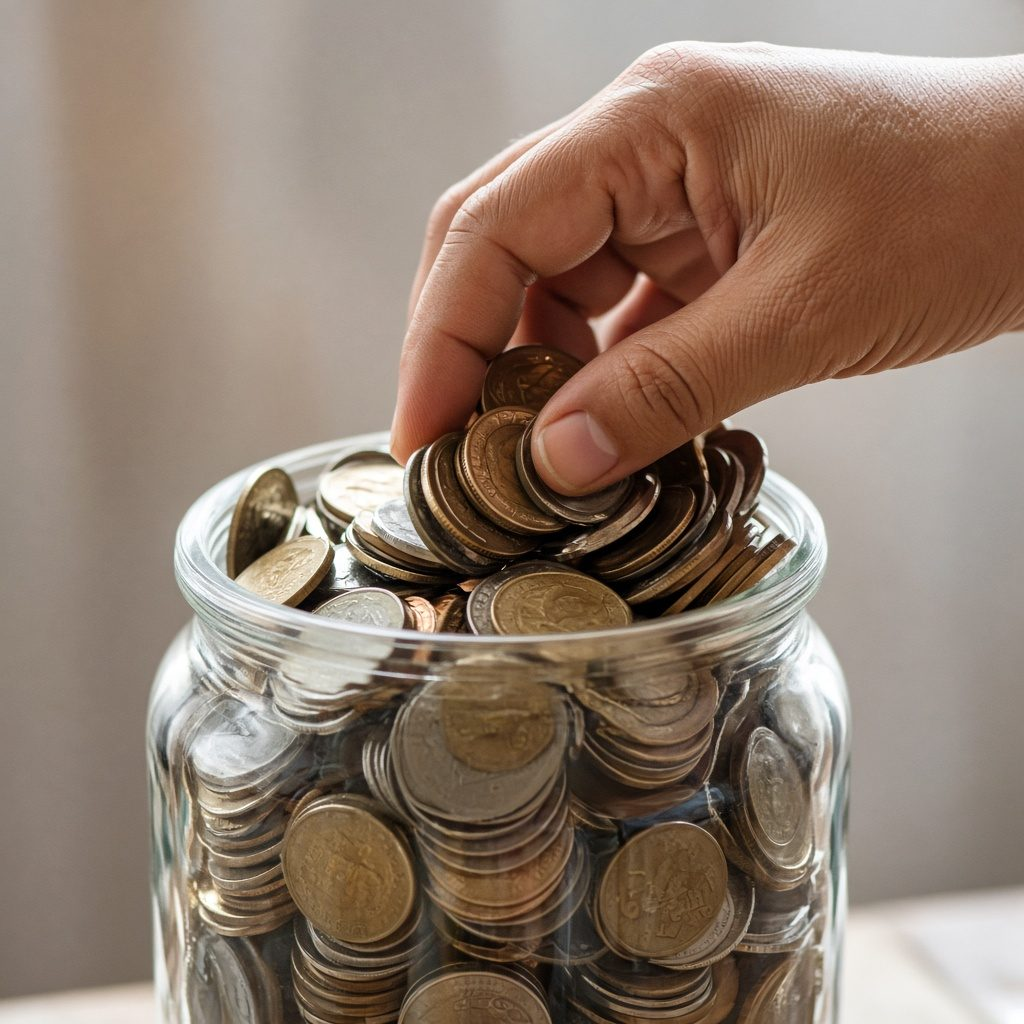
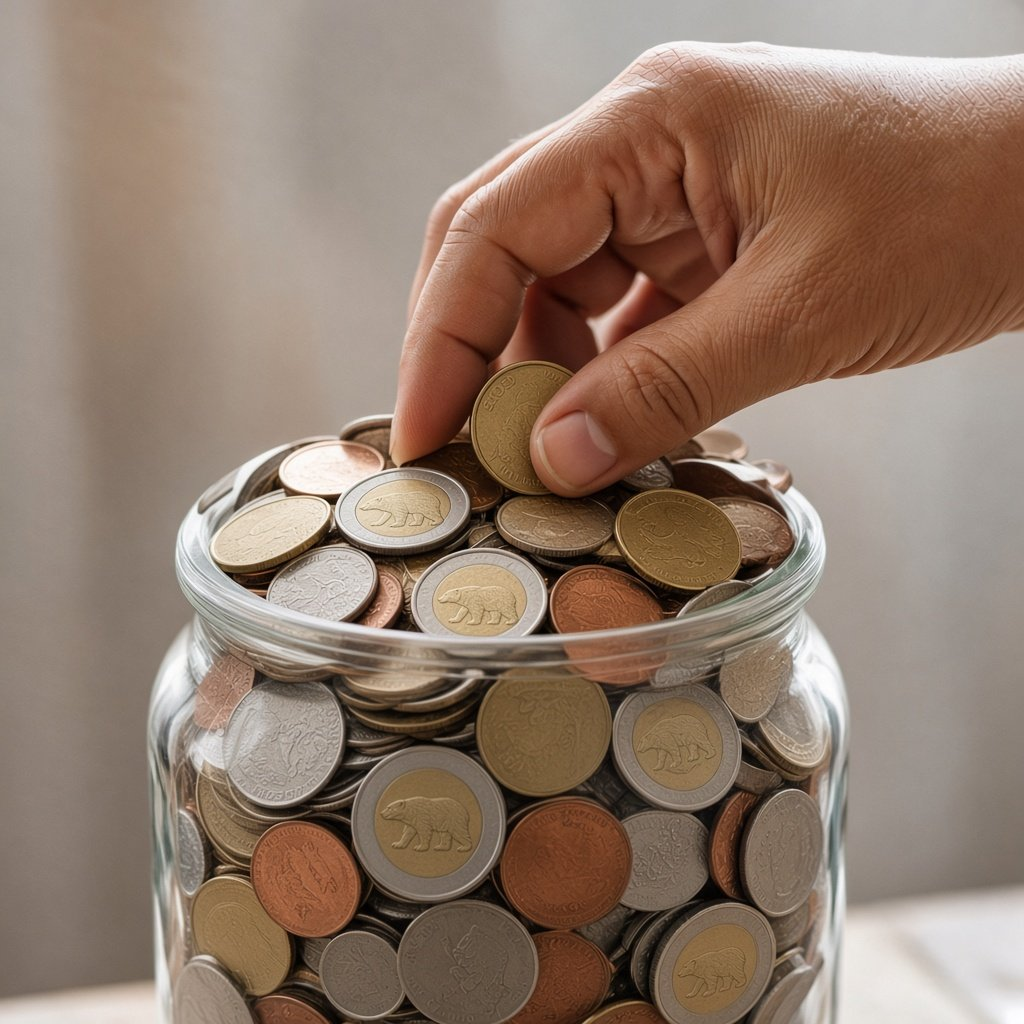
Regenerate eight blog heroes so the money is Canadian coins.
Replace pennies and foreign-looking coins with 11-sided loonies, two-tone toonies, and silver 5c, 10c, and 25c pieces, and bump the hero cache version.

diff --git a/src/lib/site.ts b/src/lib/site.ts
@@ -8,7 +8,7 @@ export const AUTHOR_URL = `${SITE_URL}/about/`;
 export const LOGO_PATH = '/assets/logo.png';
 
 /** Bump this when blog hero files change but keep the same filename. */
-export const BLOG_HERO_VERSION = '20261007';
+export const BLOG_HERO_VERSION = '20261008';
 
 export function blogHeroSrc(src: string): string {
   if (!src.includes('/images/blog/')) return src;
